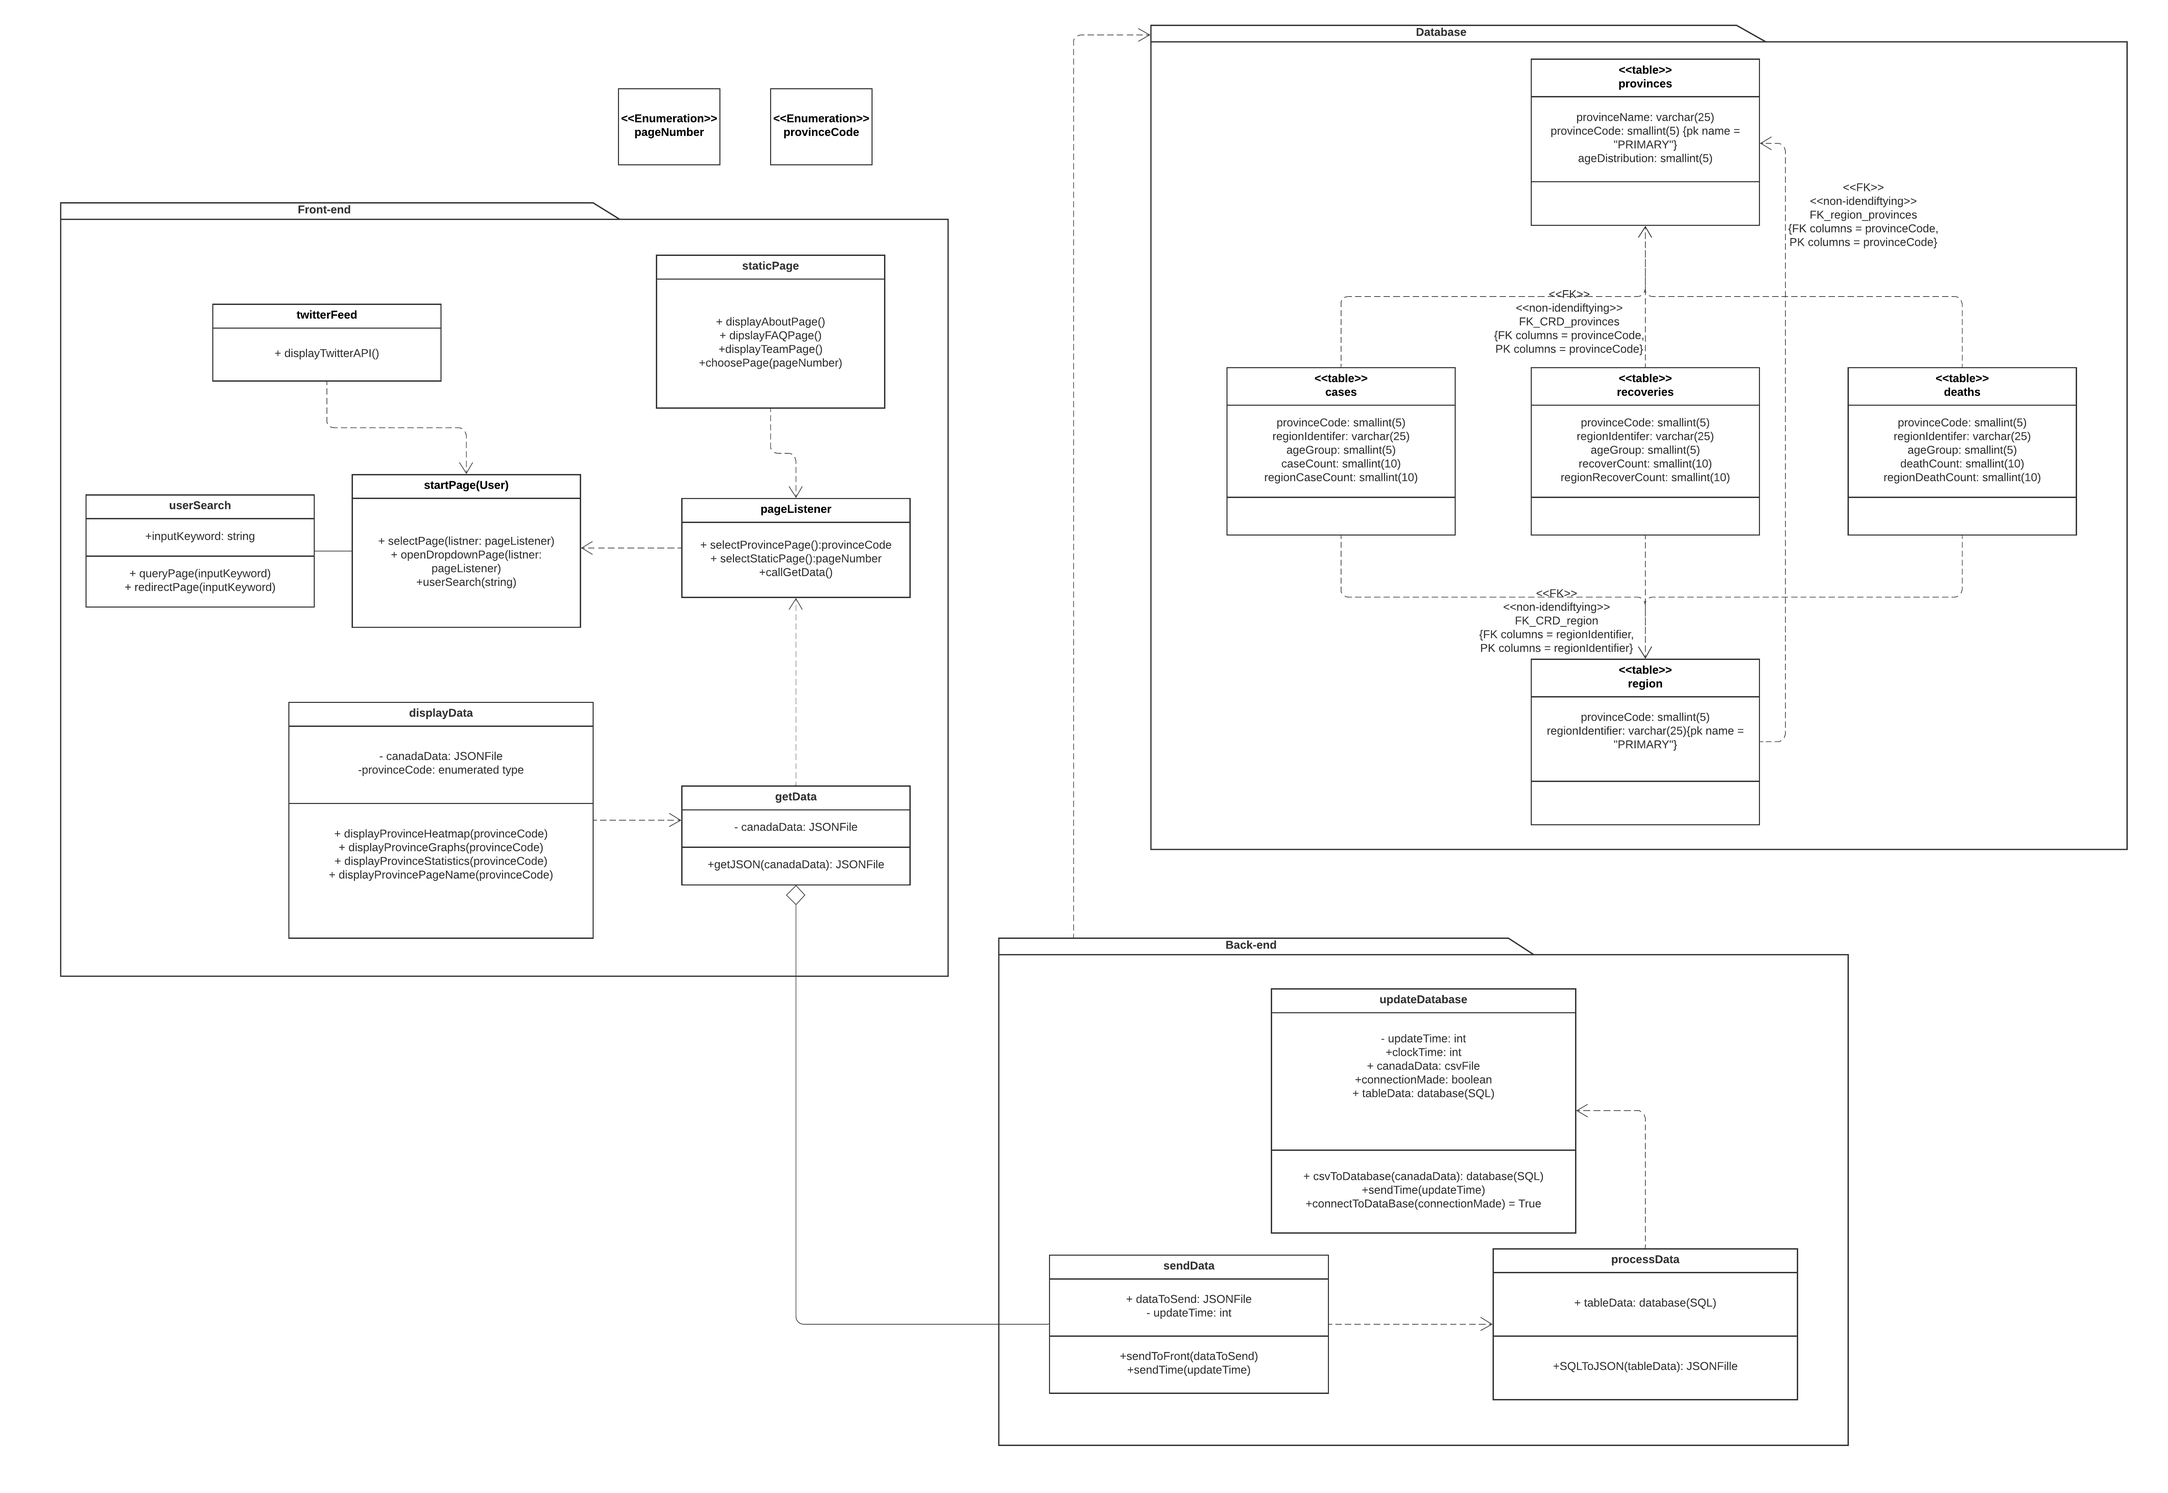
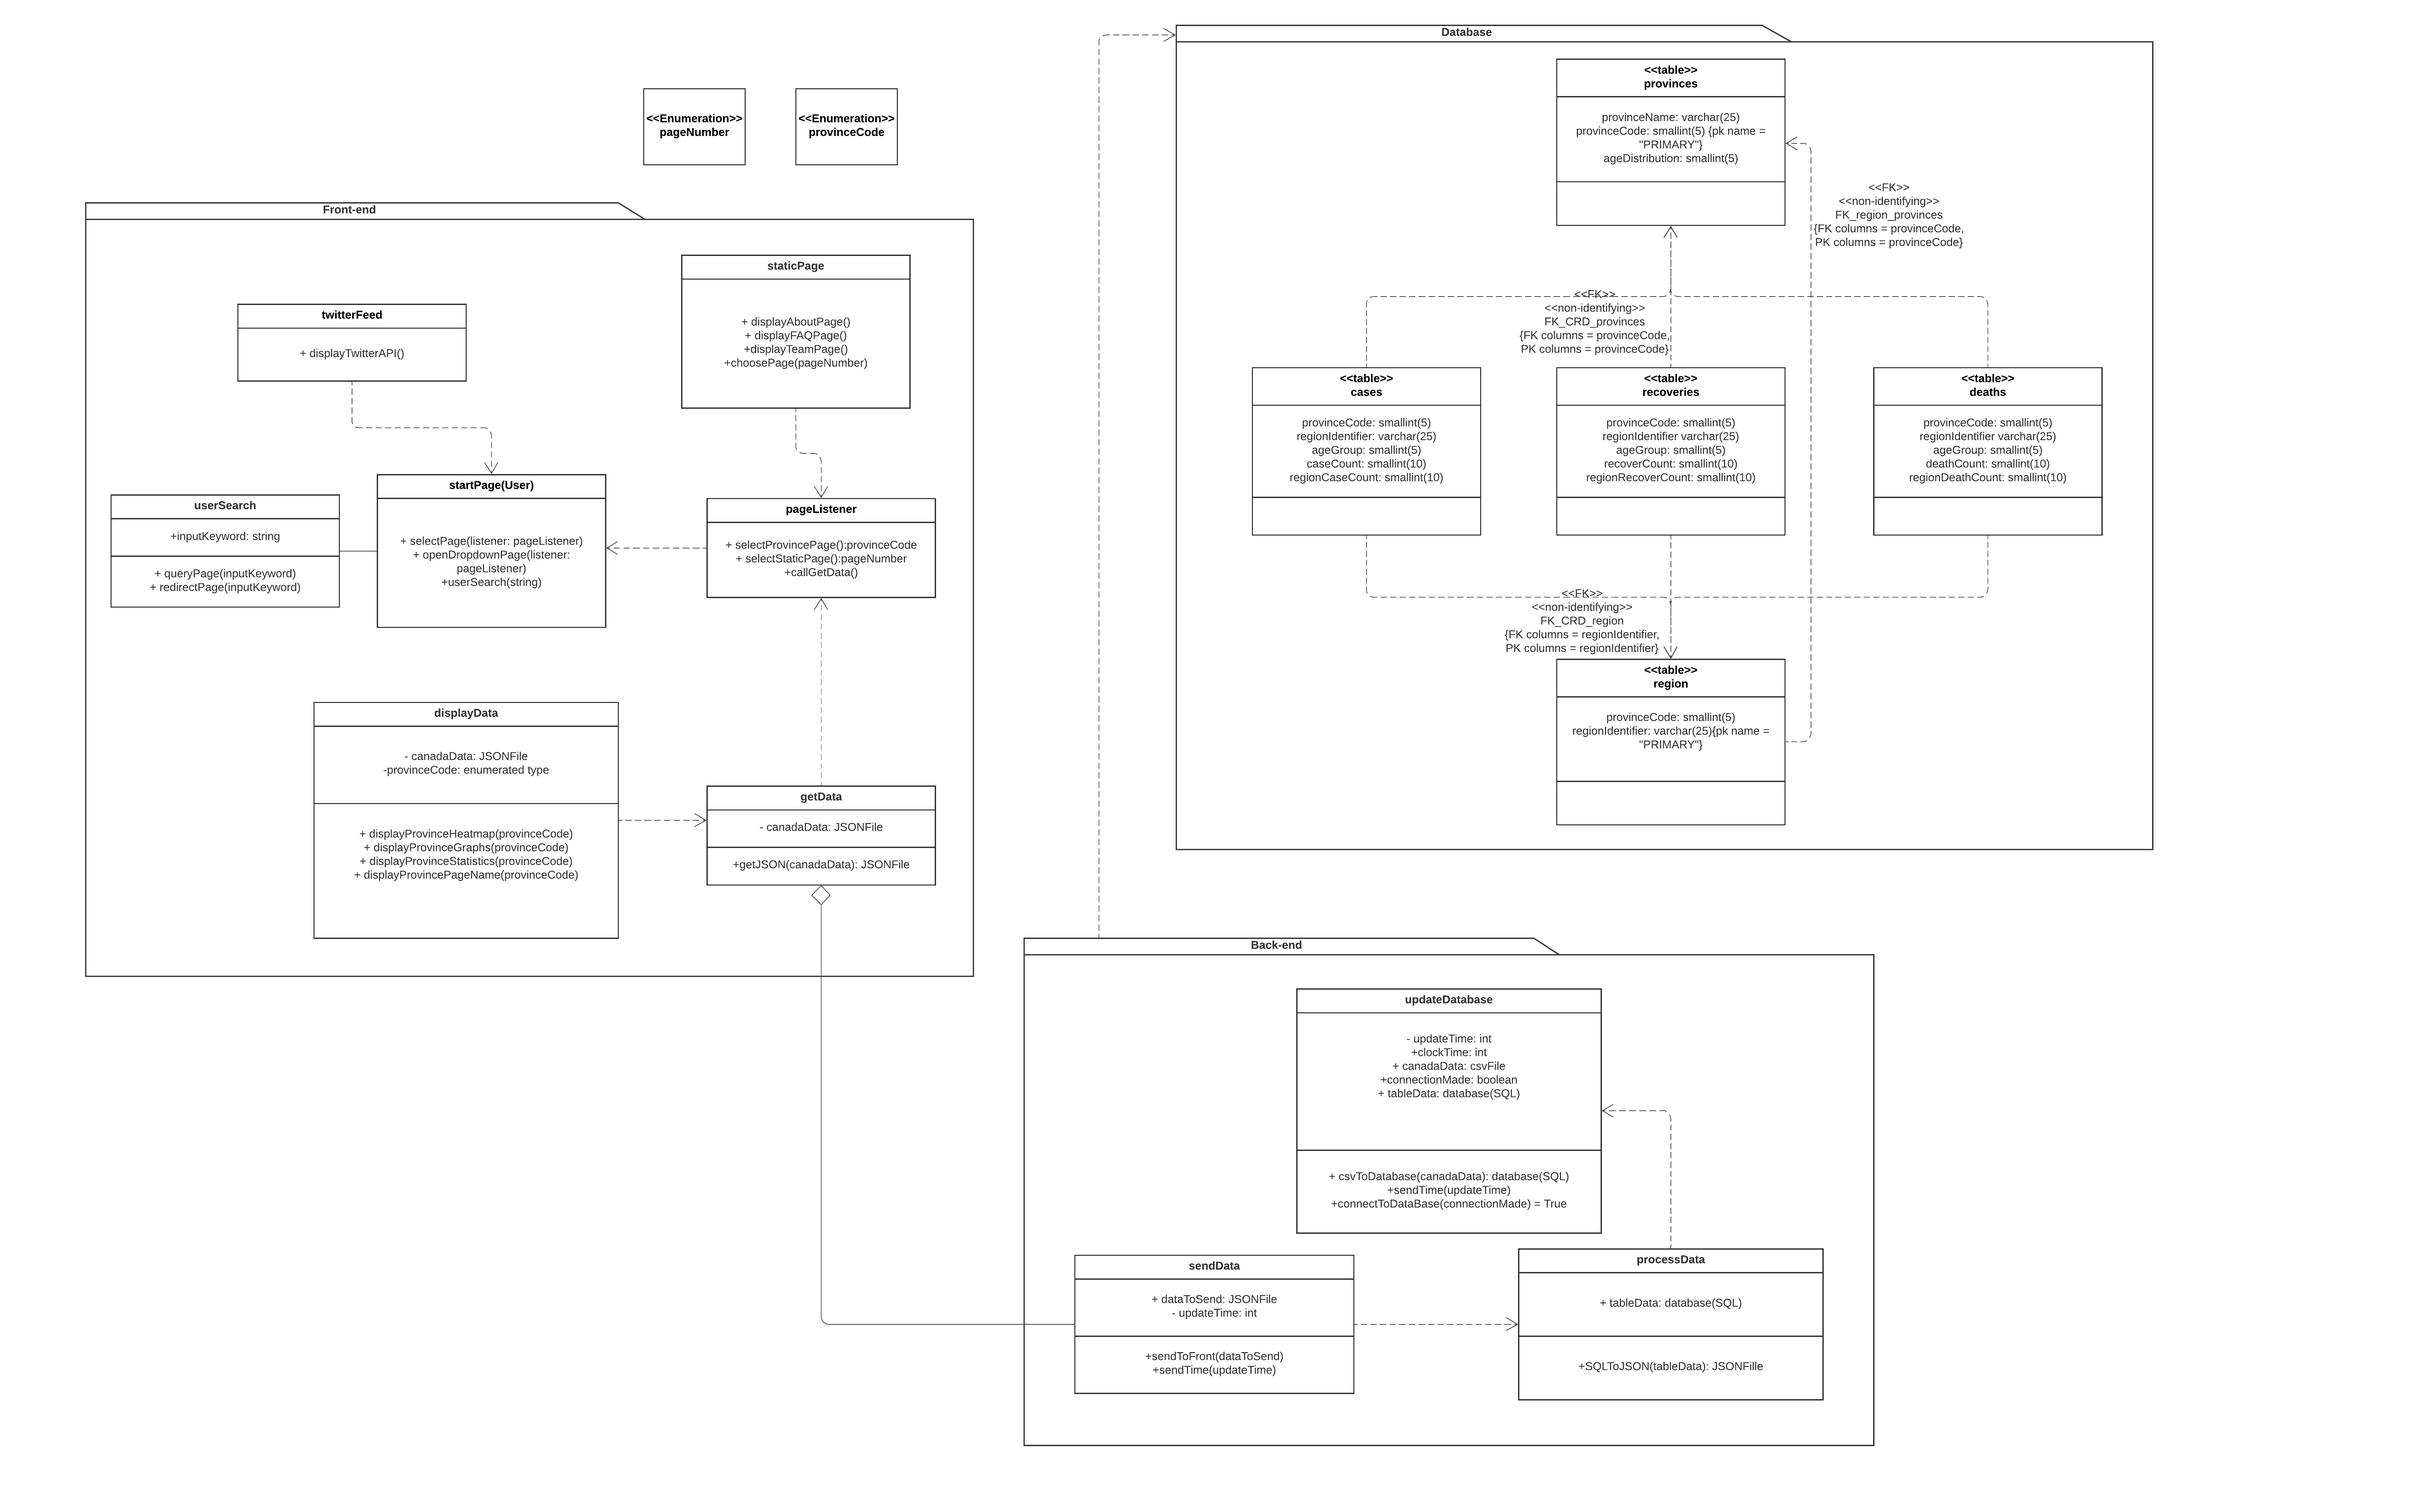
update

diff --git a/design.html b/design.html
@@ -405,7 +405,9 @@
 							</a>
 						</div>
 						<div class = "subtopicBody">
+							<p>Class UML Diagram</p><br>
 							<img src = "images\designUML1.png" alt = "logo" style="width:1500px;"><br>
+							<p>Package/Class UML Diagram</p>
 							<img src = "images\designUML2.png" alt = "logo" style="width:1500px;">
 						</div>
 					</div>
@@ -591,7 +593,7 @@
 										</tr>
 										<tr>
 											<td>twitterFeed</td>
-											<td>text</td>
+											<td>Text</td>
 											<td>Active twitter feed of COVID-19 related news within Canada</td>
 										</tr>
 										<tr>
@@ -600,9 +602,9 @@
 											<td>Title for the news twitter feed</td>
 										</tr>
 										<tr>
-											<td>canCovidCase</td>
+											<td>covidCaseLabel</td>
 											<td>Label</td>
-											<td style="color:red">Title for Canada interactive????????????????????????????????????</td>
+											<td>Title for Canada/province being displayed</td>
 										</tr>
 										<tr>
 											<td>heatMap</td>
@@ -859,7 +861,6 @@
 									<li>takes user input, and redirects user to different views of web application</li>
 								</ul>
 							</ul>
-							<p style="color:red">5.2? 5.3?<p>
 						</div>
 					</div>
 				</div>
